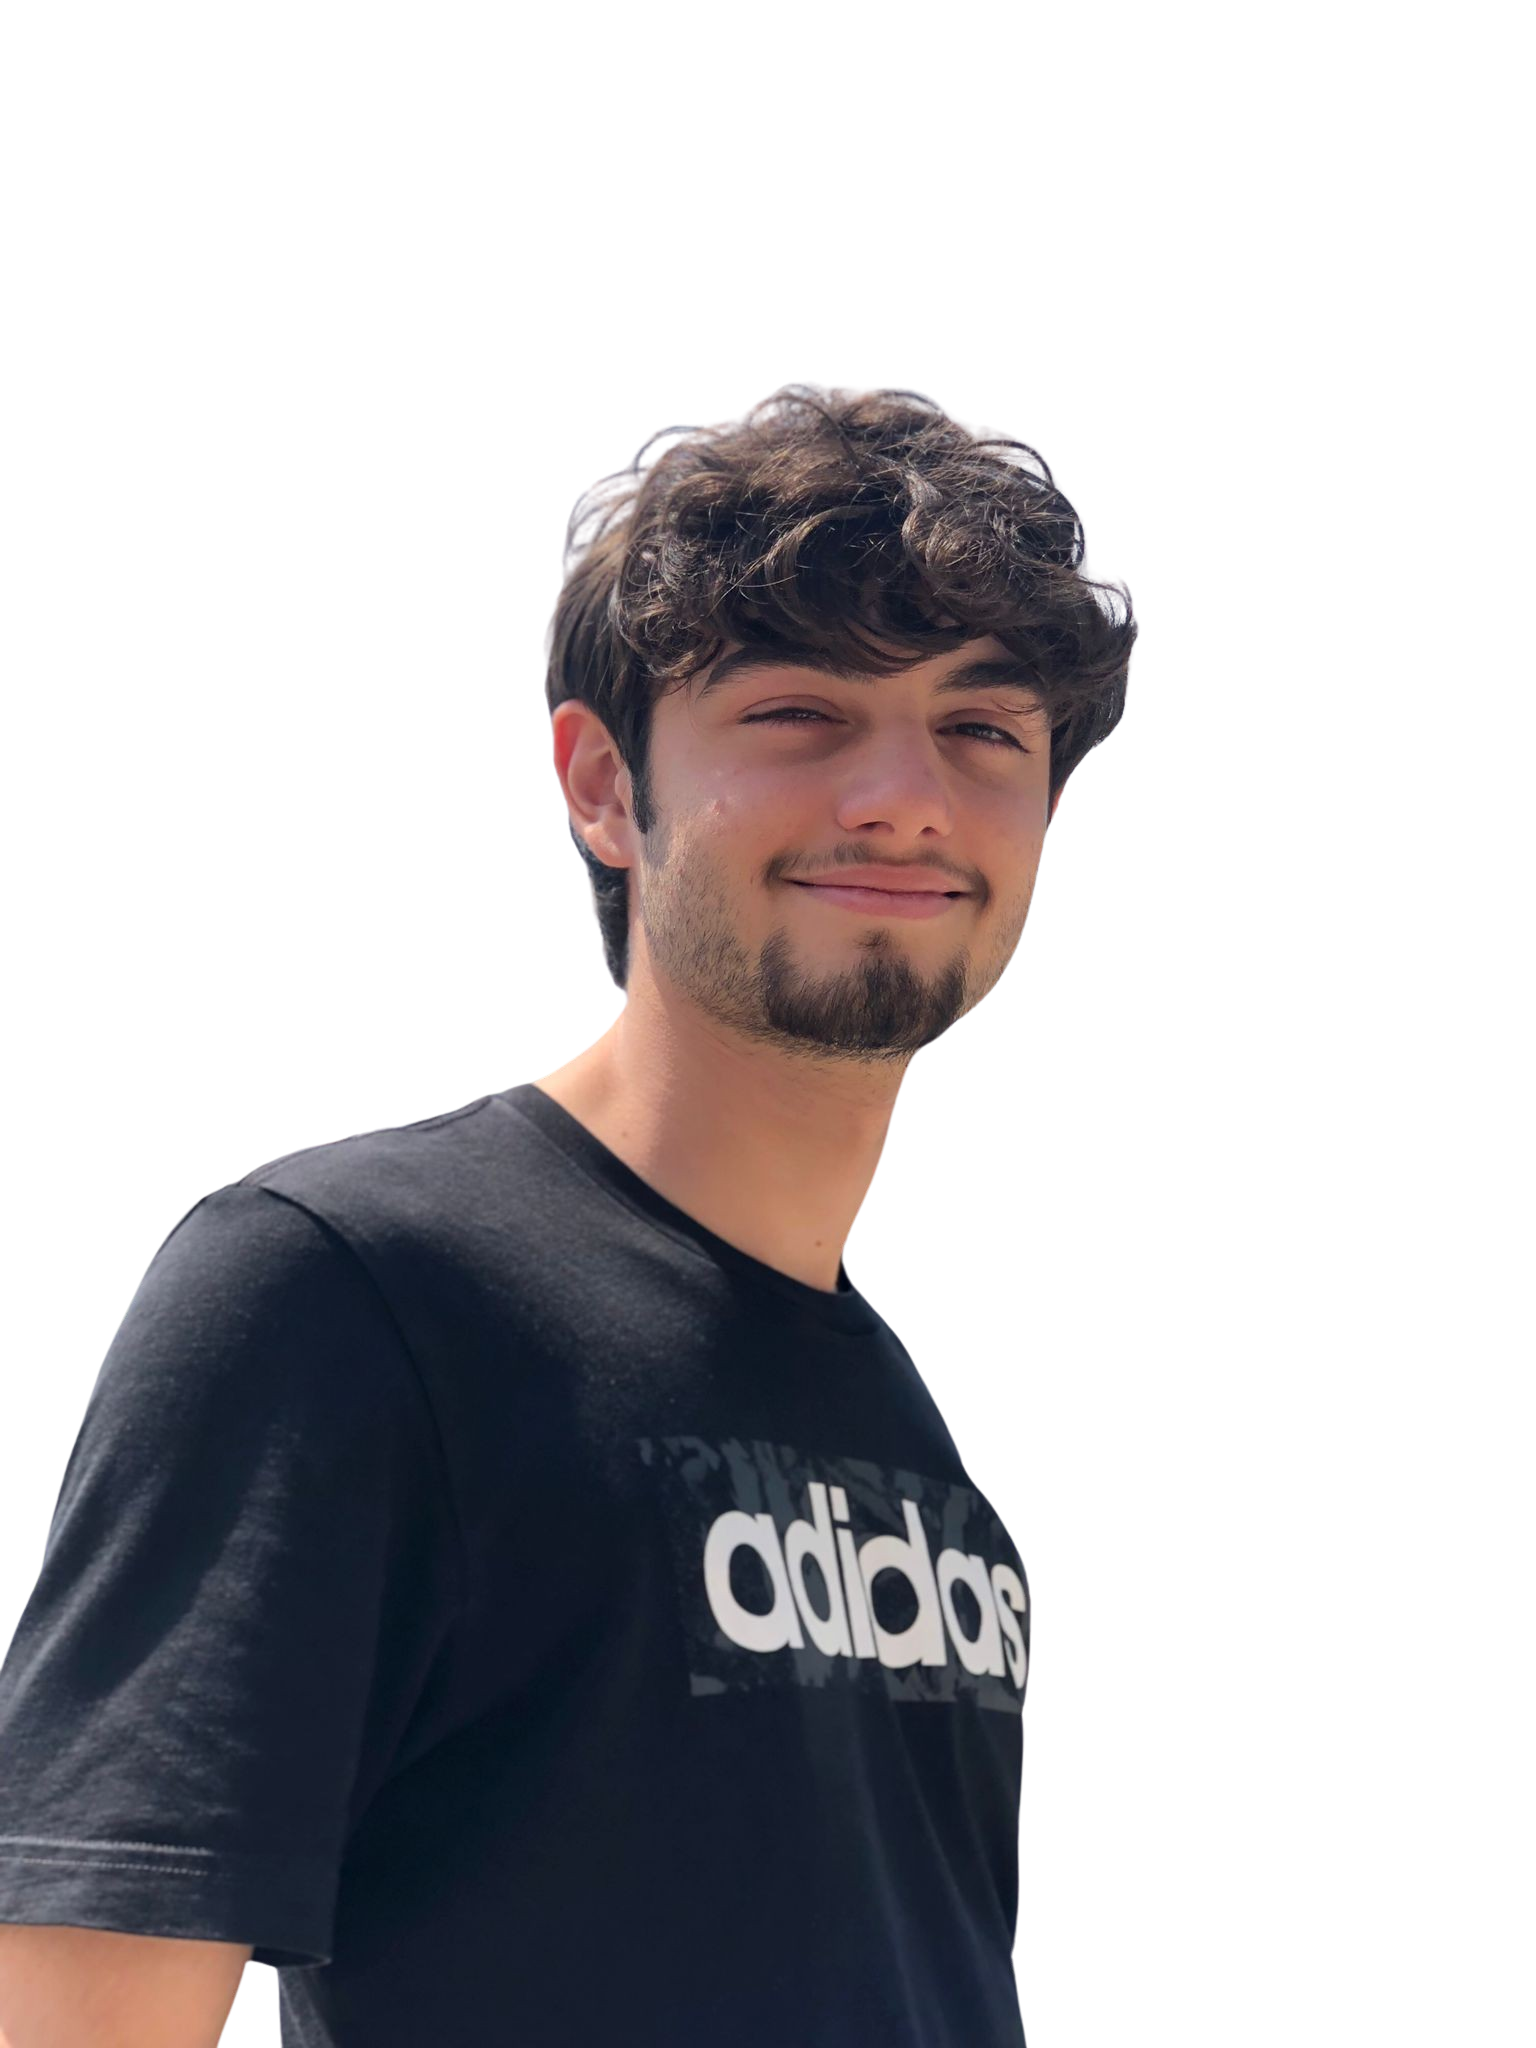
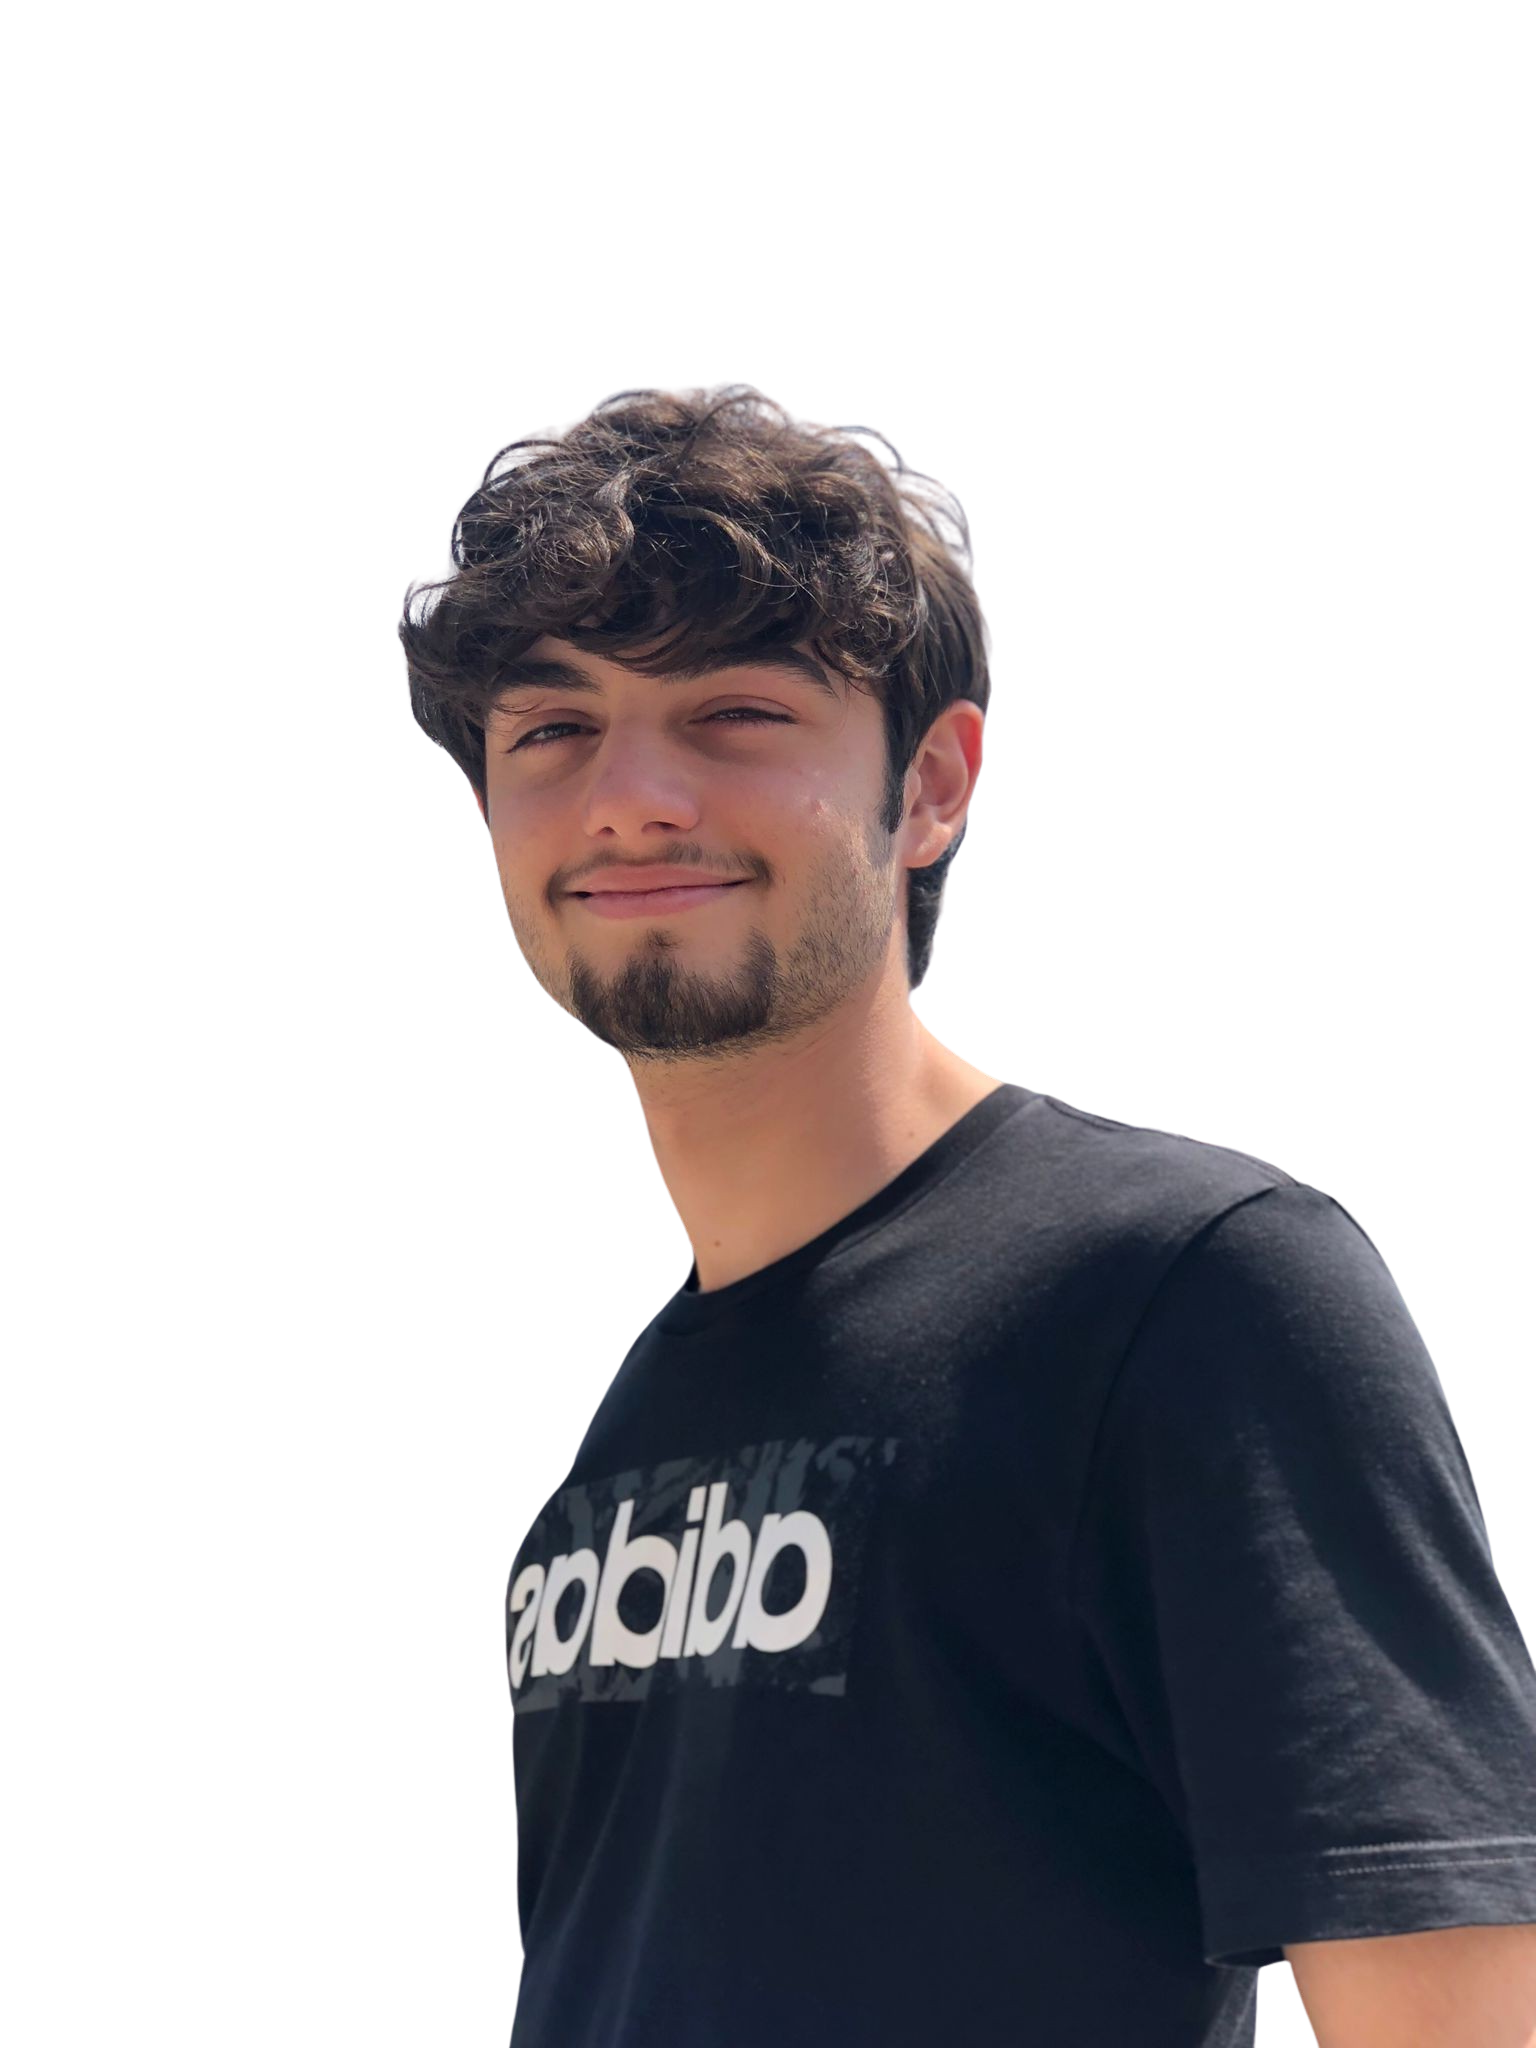
...

diff --git a/src/components/Intro/intro.js b/src/components/Intro/intro.js
@@ -1,0 +1,20 @@
+import React from "react";
+import "./intro.css";
+import bg from "../../assets/mainphoto.png";
+import {Link} from 'react-scroll';
+
+const Intro = () => {
+    return (
+        <section id="intro">
+            <div className="introContent">
+                <span className="hello">Hello,</span>
+                <span className="introText">I'm <span className="introName">Davide</span><br />Website Designer</span>
+                <p>I am a web developer and designer, proficient in creating visually appealing and functional websites with a strong foundation in coding and design principles.</p>
+                <Link><button className="btn">Contact me</button></Link>
+            </div>
+            <img src={bg} alt="Profile" className="bg"></img>
+        </section>
+    );
+};
+
+export default Intro;

diff --git a/src/components/NavBar/navbar.js b/src/components/NavBar/navbar.js
@@ -1,7 +1,8 @@
 import React from "react";
 import "./navbar.css";
 import logo from "../../assets/logo.png";
-import { Link } from "react-scroll";
+import github from "../../assets/github.png";
+import { Button, Link } from "react-scroll";
 
 export const Navbar = () => {
     return (
@@ -12,6 +13,9 @@ export const Navbar = () => {
                 <Link className="desktopMenuListItem">About</Link>
                 <Link className="desktopMenuListItem">Contact me</Link>
             </div>
+            <button className="desktopMenuBtn">
+                <img src={github} alt="" className="desktopMenuImg"></img>
+            </button>
         </nav>
     );
 };

diff --git a/src/components/NavBar/navbar.css b/src/components/NavBar/navbar.css
@@ -9,7 +9,7 @@
     justify-content: space-between;
     position: sticky;
     top: 0;
-    z-index: 4;
+    z-index: 3;
 }
 
 .logo{
@@ -21,4 +21,25 @@
 .desktopMenuListItem{
     margin: 1rem;
     cursor: pointer;
+
+}
+
+.desktopMenuListItem:hover{
+    color: white;
+    padding-bottom: 0.5rem;
+    border-bottom: 3px solid white;
+}
+
+.desktopMenuBtn{
+    background-color: transparent;
+    border: none;
+    outline: none;
+    cursor: pointer;
+}
+
+.desktopMenuImg{
+    height: 2rem;
+    width: 2rem;
+    object-fit: cover;
+    border-radius: 0.5rem;
 }

diff --git a/src/components/Intro/intro.css b/src/components/Intro/intro.css
@@ -1,0 +1,30 @@
+#intro{
+    height: calc(100vh - 4rem);
+    width: 100vw;
+    max-width: 75rem;
+    margin: 0 auto;
+    overflow: hidden;
+    position: relative;
+}
+
+.bg {
+    position: absolute;
+    top: 0;
+    right: 0;
+    z-index: -1;
+    object-fit: cover;
+    height: 100vh;
+    width: 50%;
+}
+
+
+.introContent{
+    height: 100vh;
+    width: 100vw;
+    padding: 2rem;
+    font-size: 3rem;
+    font-weight: 700;
+    display: flex;
+    flex-direction: column;
+    justify-content: center;
+}

diff --git a/src/App.js b/src/App.js
@@ -1,9 +1,11 @@
 import Navbar from "./components/NavBar/navbar";
+import Intro from "./components/Intro/intro";
 
 function App() {
   return (
     <div className="App">
       <Navbar/>
+      <Intro/>
     </div>
   );
 }
